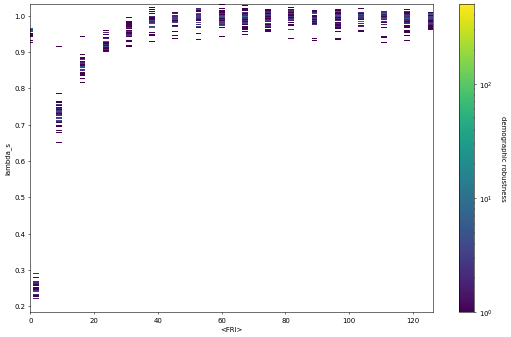
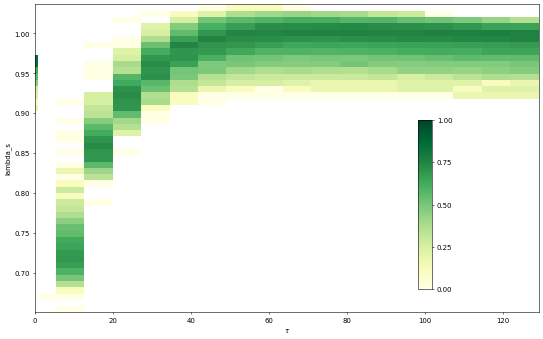
Some cleanup in project functions

diff --git a/sensitivity/project.py b/sensitivity/project.py
@@ -8,6 +8,7 @@ from scipy.optimize import curve_fit
 # Additional imports for phase analysis
 from matplotlib import pyplot as plt
 import matplotlib
+from mpl_toolkits.axes_grid1.inset_locator import inset_axes
 import scipy
 from scipy.special import gamma
 from scipy.interpolate import make_lsq_spline
@@ -259,8 +260,6 @@ class Phase:
         '''
         if self.rank != self.root:
             # Init data to be read on root
-            self.metric_data = None
-            self.tau_edges = None
             self.tau_flat = None
             self.data_dir = None
             self.metric_exp_spl = None
@@ -269,7 +268,6 @@ class Phase:
             project = sg.get_project()
             tau_diffs = np.diff(self.tau_vec)
             tau_step = (self.b_vec[1]-self.b_vec[0]) * gamma(1+1/self.c)
-            self.tau_edges = np.concatenate(([0], np.arange(tau_step/2, self.tau_vec[-1]+tau_step, tau_step)))
 
             jobs = project.find_jobs({'doc.simulated': True, 'Aeff': self.Aeff, 
                                       't_final': self.t_final, 'method': self.sim_method})
@@ -282,12 +280,9 @@ class Phase:
                 all_tau = np.load(fn)
 
             self.data_dir = f"{self.meta_metric}/data/Aeff_{self.Aeff}/tfinal_{self.t_final}/metric_{self.metric}"
-            fn = self.data_dir + f"/metric_data.pkl"
+            fn = self.data_dir + f"/all_metric.npy"
             if (not os.path.isfile(fn)) or self.overwrite_metrics:
-                self.metric_data = {}
-                print(f"Creating {self.metric} histogram") 
-                if self.metric == 'r': metric_label = 'fractional_change'
-                else: metric_label = self.metric
+                # Loop over all jobs and collect metric data
                 all_metric = np.array([])
                 for job_i, job in enumerate(jobs):
                     with job.data as data:
@@ -298,51 +293,52 @@ class Phase:
                                 T = 200
                                 metric_vec.append(1.0 - float(data[f'frac_extirpated/{b}'][T-1]))
                             else:
-                                metric_vec.append(float(data[f'{metric_label}/{b}']))
+                                metric_vec.append(float(data[f'{self.metric}/{b}']))
                     all_metric = np.append(all_metric, metric_vec)
+
+                # Save collected metric data to file
+                with open(fn, 'wb') as handle:
+                    np.save(fn, all_metric)
                     
-                metric_min, metric_max = (min(all_metric), max(all_metric))
-                if self.metric in ['lambda_s', 'mu_s']:
-                    coarse_step = 0.02
-                    fine_step = coarse_step/100
-                    metric_edges = np.arange(metric_min, metric_max + fine_step, fine_step)
-                else:
-                    metric_min, metric_max = (all_metric.min(), all_metric.max())
-                    metric_bw = (metric_max - metric_min) / 200
-                    metric_edges = np.arange(metric_min, metric_max + metric_bw, metric_bw)
-                
-                # First plot the metric probability density
+                # Plot the metric probability density
+                print(f"Creating {self.metric} histogram") 
                 fig, ax = plt.subplots(figsize=(13,8))
-                metric_hist = ax.hist2d(all_tau, all_metric, bins=[self.tau_edges, metric_edges], 
-                                 norm=matplotlib.colors.LogNorm(vmax=int(len(all_metric)/len(self.b_vec))), 
-                                 density=False)
-                cbar = ax.figure.colorbar(metric_hist[-1], ax=ax, location="right")
-                cbar.ax.set_ylabel('demographic robustness', rotation=-90, fontsize=10, labelpad=20)
-                ax.set_xlabel('<FRI>')
+                tau_diffs = np.diff(self.tau_vec)
+                tau_step = tau_diffs[1]
+                tau_edges = np.concatenate((
+                                [self.tau_vec[0]],
+                                [tau_diffs[0]/2],
+                                np.arange(self.tau_vec[1]+tau_step/2, self.tau_vec[-1]+tau_step, tau_step)
+                                           ))
+                min_edge_i = 2
+                metric_min = min(all_metric[(all_tau >= tau_edges[min_edge_i]) & (all_tau < tau_edges[min_edge_i+1])])
+                metric_edges = np.linspace(metric_min, all_metric.max()*1.005, 50)
+                cmap = copy.copy(matplotlib.cm.YlGn)
+                im = ax.hist2d(all_tau, all_metric, bins=[tau_edges, metric_edges],
+                                 norm=matplotlib.colors.LogNorm(vmax=int(len(all_metric)/len(self.b_vec))),
+                                 density=False,
+                                cmap=cmap)
+                # Add the colorbar to inset axis
+                cbar_ax = inset_axes(ax, width="5%", height="50%", loc='center',
+                                     bbox_to_anchor=(0.5, -0.2, 0.55, 1.1),
+                                     bbox_transform=ax.transAxes, borderpad=0)
+                sm = matplotlib.cm.ScalarMappable(cmap=cmap, norm=None)
+                cbar = fig.colorbar(sm, cax=cbar_ax, orientation="vertical", ticks=[0, 0.25, 0.5, 0.75, 1.])
+                ax.set_xlabel(r'$\tau$')
                 ax.set_ylabel(self.metric)
                 figs_dir = f"{self.meta_metric}/figs/Aeff_{self.Aeff}/tfinal_{self.t_final}/metric_{self.metric}/"
                 if not os.path.isdir(figs_dir):
                     os.makedirs(figs_dir)
-                print("saving sensitivity figure")
                 fig.savefig(figs_dir + f"sensitivity", bbox_inches='tight', dpi=50)
                 plt.close(fig)
-                # Now remake with density=True for calculations later
-                metric_hist = np.histogram2d(all_tau, all_metric, bins=[self.tau_edges, metric_edges], 
-                                             density=True)
-
-                self.metric_data.update({'all_metric': all_metric})
-                self.metric_data.update({'metric_hist': metric_hist[:3]})
-                with open(fn, 'wb') as handle:
-                    pickle.dump(self.metric_data, handle, protocol=pickle.HIGHEST_PROTOCOL)
             else:
-                with open(fn, 'rb') as handle:
-                    self.metric_data = pickle.load(handle)
+                all_metric = np.load(fn)
 
             # Create interpolating function for <metric>(tauc)
             metric_expect_vec = np.ones(self.tau_vec.size) * np.nan
             for tau_i, tau in enumerate(self.tau_vec):
                 tau_filt = (all_tau == tau)
-                metric_slice = self.metric_data["all_metric"][tau_filt]
+                metric_slice = all_metric[tau_filt]
                 metric_expect_vec[tau_i] = np.mean(metric_slice)
             t = self.tau_vec[2:-2:2] 
             k = 3
@@ -378,8 +374,6 @@ class Phase:
             self.tau_flat = tau_raster[maps_filt]
         
         # Broadcast data used later to all ranks
-        self.metric_data = self.comm.bcast(self.metric_data, root=self.root)
-        self.tau_edges = self.comm.bcast(self.tau_edges, root=self.root)
         self.tau_flat = self.comm.bcast(self.tau_flat, root=self.root)
         self.data_dir = self.comm.bcast(self.data_dir, root=self.root)
         self.metric_exp_spl = self.comm.bcast(self.metric_exp_spl, root=self.root)
@@ -415,82 +409,7 @@ class Phase:
         self.slice_left_all = np.round(self.slice_left_all).astype(int)
 
         if self.tauc_method != "flat":
-            # Generate tauc scaling parameters, if needed
-            check1 = os.path.isfile(self.data_dir + f"/v_all_{self.tauc_method}.npy")
-            check2 = os.path.isfile(self.data_dir + f"/w_all_{self.tauc_method}.npy")
-            if np.all([check1, check2, self.overwrite_scaleparams == False]):
-                generate_params = False
-                self.v_all = np.load(self.data_dir + f"/v_all_{self.tauc_method}.npy")
-                self.w_all = np.load(self.data_dir + f"/w_all_{self.tauc_method}.npy")
-            else:
-                generate_params = True
-
-            if generate_params:
-                if self.rank != self.root:
-                    self.v_all = None
-                    self.w_all = None
-                else:
-                    print(f"Generating scaling parameters for {self.tauc_method}")
-                    self.v_all = np.ones((len(self.C_vec), len(self.ncell_vec), len(self.slice_left_all))) * np.nan
-                    self.w_all = np.ones((len(self.C_vec), len(self.ncell_vec), len(self.slice_left_all))) * np.nan
-
-                # Distribute work among ranks
-                task_list = list(product(enumerate(self.C_vec), enumerate(self.ncell_vec), enumerate(self.slice_left_all)))
-                rank_tasks = np.array_split(task_list, self.num_procs)[self.rank]  # Split tasks across ranks
-                # Each rank performs optimization on its assigned subset of tasks
-                rank_v_all = []
-                rank_w_all = []
-
-                for (C_i, C), (ncell_i, ncell), (slice_left_i, slice_left) in rank_tasks:
-                    self.slice_left_max = self.slice_right_max - ncell
-                    if slice_left > self.slice_left_max: continue
-
-                    tau_slice = tau_sorted[slice_left:slice_left+ncell]
-                    '''Try translating the initial tau so they start at zero'''
-                    tau_slice = tau_slice - min(tau_slice)
-
-                    if self.tauc_method == "initlinear":
-                        x0 = [-0.003, 900]
-                        result = self.maximize_preflat(self.tauc_method, C, ncell, tau_slice, x0=x0)
-                    elif self.tauc_method == "initinverse":
-                        penalty_weight = 0.05
-                        result = self.maximize_preflat(self.tauc_method, C, ncell, tau_slice, penalty_weight=penalty_weight)
-                        while not result.success:
-                            penalty_weight *= 0.5
-                            result = self.maximize_preflat(self.tauc_method, C, ncell, tau_slice, penalty_weight=penalty_weight)
-
-                    rank_v_all.append((C_i, ncell_i, slice_left_i, result.x[0]))
-                    rank_w_all.append((C_i, ncell_i, slice_left_i, result.x[1]))
-
-                # Gather results from all ranks on the root rank
-                gathered_v_all = self.comm.gather(rank_v_all, root=self.root)
-                gathered_w_all = self.comm.gather(rank_w_all, root=self.root)
-                # Combine results on the root rank
-                if self.rank == self.root:
-                    for rank_v, rank_w in zip(gathered_v_all, gathered_w_all):
-                        for (C_i, ncell_i, slice_left_i, v_value) in rank_v:
-                            self.v_all[C_i, ncell_i, slice_left_i] = v_value
-                        for (C_i, ncell_i, slice_left_i, w_value) in rank_w:
-                            self.w_all[C_i, ncell_i, slice_left_i] = w_value
-                # Broadcast to all ranks
-                self.v_all = self.comm.bcast(self.v_all, root=self.root)
-                self.w_all = self.comm.bcast(self.w_all, root=self.root)
-
-        # Get bins of initial tau for phase plotting per (eps_tau, C)
-        tau_range = 50 - tau_sorted[0]
-        self.plotting_tau_bw = tau_range / self.plotting_tau_bw_ratio
-        self.plotting_tau_bin_edges = np.arange(tau_sorted[0], 50, self.plotting_tau_bw)
-        self.plotting_tau_bin_cntrs = np.array([edge + self.plotting_tau_bw/2 for edge in self.plotting_tau_bin_edges])
-
-        # Store the mean tau in each preset slice for reference later
-        self.tau_means_ref = []
-        for ncell in self.ncell_vec:
-            tau_means_ncell = np.ones(len(self.slice_left_all)) * np.nan
-            self.slice_left_max = self.slice_right_max - ncell
-            for slice_i, slice_left in enumerate(self.slice_left_all):
-                if slice_left <= self.slice_left_max:
-                    tau_means_ncell[slice_i] = np.mean(tau_sorted[slice_left:slice_left+ncell])
-            self.tau_means_ref.append(tau_means_ncell)
+            self.generate_scale_params(tau_sorted)
 
         if self.rank == self.root:
             # Save all state variables
@@ -508,6 +427,68 @@ class Phase:
             self.phase_xs = np.ones((
                                     len(self.C_vec), len(self.ncell_vec), len(self.slice_left_all)
                                    )) * np.nan
+
+    def generate_scale_params(self, tau_sorted):
+        # Generate tauc scaling parameters, if needed
+        check1 = os.path.isfile(self.data_dir + f"/v_all_{self.tauc_method}.npy")
+        check2 = os.path.isfile(self.data_dir + f"/w_all_{self.tauc_method}.npy")
+        if np.all([check1, check2, self.overwrite_scaleparams == False]):
+            generate_params = False
+            self.v_all = np.load(self.data_dir + f"/v_all_{self.tauc_method}.npy")
+            self.w_all = np.load(self.data_dir + f"/w_all_{self.tauc_method}.npy")
+        else:
+            generate_params = True
+
+        if generate_params:
+            if self.rank != self.root:
+                self.v_all = None
+                self.w_all = None
+            else:
+                print(f"Generating scaling parameters for {self.tauc_method}")
+                self.v_all = np.ones((len(self.C_vec), len(self.ncell_vec), len(self.slice_left_all))) * np.nan
+                self.w_all = np.ones((len(self.C_vec), len(self.ncell_vec), len(self.slice_left_all))) * np.nan
+
+            # Distribute work among ranks
+            task_list = list(product(enumerate(self.C_vec), enumerate(self.ncell_vec), enumerate(self.slice_left_all)))
+            rank_tasks = np.array_split(task_list, self.num_procs)[self.rank]  # Split tasks across ranks
+            # Each rank performs optimization on its assigned subset of tasks
+            rank_v_all = []
+            rank_w_all = []
+
+            for (C_i, C), (ncell_i, ncell), (slice_left_i, slice_left) in rank_tasks:
+                self.slice_left_max = self.slice_right_max - ncell
+                if slice_left > self.slice_left_max: continue
+
+                tau_slice = tau_sorted[slice_left:slice_left+ncell]
+                '''Try translating the initial tau so they start at zero'''
+                tau_slice = tau_slice - min(tau_slice)
+
+                if self.tauc_method == "initlinear":
+                    x0 = [-0.003, 900]
+                    result = self.maximize_preflat(self.tauc_method, C, ncell, tau_slice, x0=x0)
+                elif self.tauc_method == "initinverse":
+                    penalty_weight = 0.05
+                    result = self.maximize_preflat(self.tauc_method, C, ncell, tau_slice, penalty_weight=penalty_weight)
+                    while not result.success:
+                        penalty_weight *= 0.5
+                        result = self.maximize_preflat(self.tauc_method, C, ncell, tau_slice, penalty_weight=penalty_weight)
+
+                rank_v_all.append((C_i, ncell_i, slice_left_i, result.x[0]))
+                rank_w_all.append((C_i, ncell_i, slice_left_i, result.x[1]))
+
+            # Gather results from all ranks on the root rank
+            gathered_v_all = self.comm.gather(rank_v_all, root=self.root)
+            gathered_w_all = self.comm.gather(rank_w_all, root=self.root)
+            # Combine results on the root rank
+            if self.rank == self.root:
+                for rank_v, rank_w in zip(gathered_v_all, gathered_w_all):
+                    for (C_i, ncell_i, slice_left_i, v_value) in rank_v:
+                        self.v_all[C_i, ncell_i, slice_left_i] = v_value
+                    for (C_i, ncell_i, slice_left_i, w_value) in rank_w:
+                        self.w_all[C_i, ncell_i, slice_left_i] = w_value
+            # Broadcast to all ranks
+            self.v_all = self.comm.bcast(self.v_all, root=self.root)
+            self.w_all = self.comm.bcast(self.w_all, root=self.root)
 
     def compute_tauc_slice(self, x, method, tau_slice):
         if method == 'initlinear':
@@ -624,7 +605,7 @@ class Phase:
             # Insert back into tau_expect
             self.tau_expect[i, slice_indices] = replacement_tau
 
-        # 6. Clip with min_tau
+        # Clip with min_tau
         self.tau_expect = np.where(self.tau_expect < self.min_tau, self.min_tau, self.tau_expect)
 
 
@@ -789,8 +770,24 @@ class Phase:
                 else:
                     handle[data_key] = self.phase
     
-    def plot_phase_slice(self, C, xs=False):
+    def plot_phase_slice(self, C, tau_sorted, xs=False):
         if self.rank == self.root:
+            # Get bins of initial tau for phase plotting per (eps_tau, C)
+            tau_range = 50 - tau_sorted[0]
+            self.plotting_tau_bw = tau_range / self.plotting_tau_bw_ratio
+            self.plotting_tau_bin_edges = np.arange(tau_sorted[0], 50, self.plotting_tau_bw)
+            self.plotting_tau_bin_cntrs = np.array([edge + self.plotting_tau_bw/2 for edge in self.plotting_tau_bin_edges])
+
+            # Store the mean tau in each preset slice for reference later
+            self.tau_means_ref = []
+            for ncell in self.ncell_vec:
+                tau_means_ncell = np.ones(len(self.slice_left_all)) * np.nan
+                self.slice_left_max = self.slice_right_max - ncell
+                for slice_i, slice_left in enumerate(self.slice_left_all):
+                    if slice_left <= self.slice_left_max:
+                        tau_means_ncell[slice_i] = np.mean(tau_sorted[slice_left:slice_left+ncell])
+                self.tau_means_ref.append(tau_means_ncell)
+
             C_i = np.nonzero(self.C_vec == C)[0][0]
             phase_slice = self.phase[C_i, :, :]
             if xs:

diff --git a/sensitivity/makefig.py b/sensitivity/makefig.py
@@ -71,9 +71,7 @@ def set_globals(results_pre):
     #                                       'Google Drive', 'My Drive', 'Research', 'Regan', 'Figs/')
 
     # Load things saved specific to these results
-    with open(fn_prefix + 'metric_data.pkl', 'rb') as handle:
-        globals()['metric_data'] = pickle.load(handle)
-    globals()['all_metric'] = metric_data['all_metric']
+    globals()['all_metric'] = np.load(f"{results_pre}/data/Aeff_{Aeff}/tfinal_{t_final}/metric_{metric}/all_metric.npy")
     globals()['all_tau'] = np.load(f"{results_pre}/data/Aeff_{Aeff}/tfinal_{t_final}/all_tau.npy")
     globals()['C_vec'] = np.load(fn_prefix + "C_vec.npy")
     globals()['ncell_vec'] = np.load(fn_prefix + "ncell_vec.npy")

diff --git a/sensitivity/postprocess_mcsampled.py b/sensitivity/postprocess_mcsampled.py
@@ -36,9 +36,7 @@ def set_globals(results_pre):
     globals()['fig_prefix'] = f"{results_pre}/figs/Aeff_{Aeff}/tfinal_{t_final}/metric_{metric}/"
 
     # Load things saved specific to these results
-    with open(fn_prefix + 'metric_data.pkl', 'rb') as handle:
-        globals()['metric_data'] = pickle.load(handle)
-    globals()['all_metric'] = metric_data['all_metric']
+    globals()['all_metric'] = np.load(f"{results_pre}/data/Aeff_{Aeff}/tfinal_{t_final}/metric_{metric}/all_metric.npy")
     globals()['all_tau'] = np.load(f"{results_pre}/data/Aeff_{Aeff}/tfinal_{t_final}/all_tau.npy")
     globals()['C_vec'] = np.load(fn_prefix + "C_vec.npy")
     globals()['ncell_vec'] = np.load(fn_prefix + "ncell_vec.npy")

diff --git a/sensitivity/phase_mcsampled.py b/sensitivity/phase_mcsampled.py
@@ -29,7 +29,7 @@ constants.update({'final_max_tau': np.nan})
 constants['meta_metric'] = 'gte_thresh'
 constants.update({'metric': 'lambda_s'})
 constants.update({'tauc_method': 'flat'})
-constants.update({'overwrite_metrics': False}) 
+constants.update({'overwrite_metrics': True}) 
 constants['overwrite_results'] = True
 
 constants['plotting_tau_bw_ratio'] = 30 #For binning initial tau (with uncertainty) in phase slice plots
@@ -50,6 +50,7 @@ param_keys = ['C', 'ncell', 'slice_left',
 pproc = Phase(**constants)
 pproc.initialize()
 pproc.init_strategy_variables()
+sys.exit('exiting')
 assert pproc.metric_exp_spl(pproc.min_tau) > 0
 
 if pproc.rank != pproc.root:
